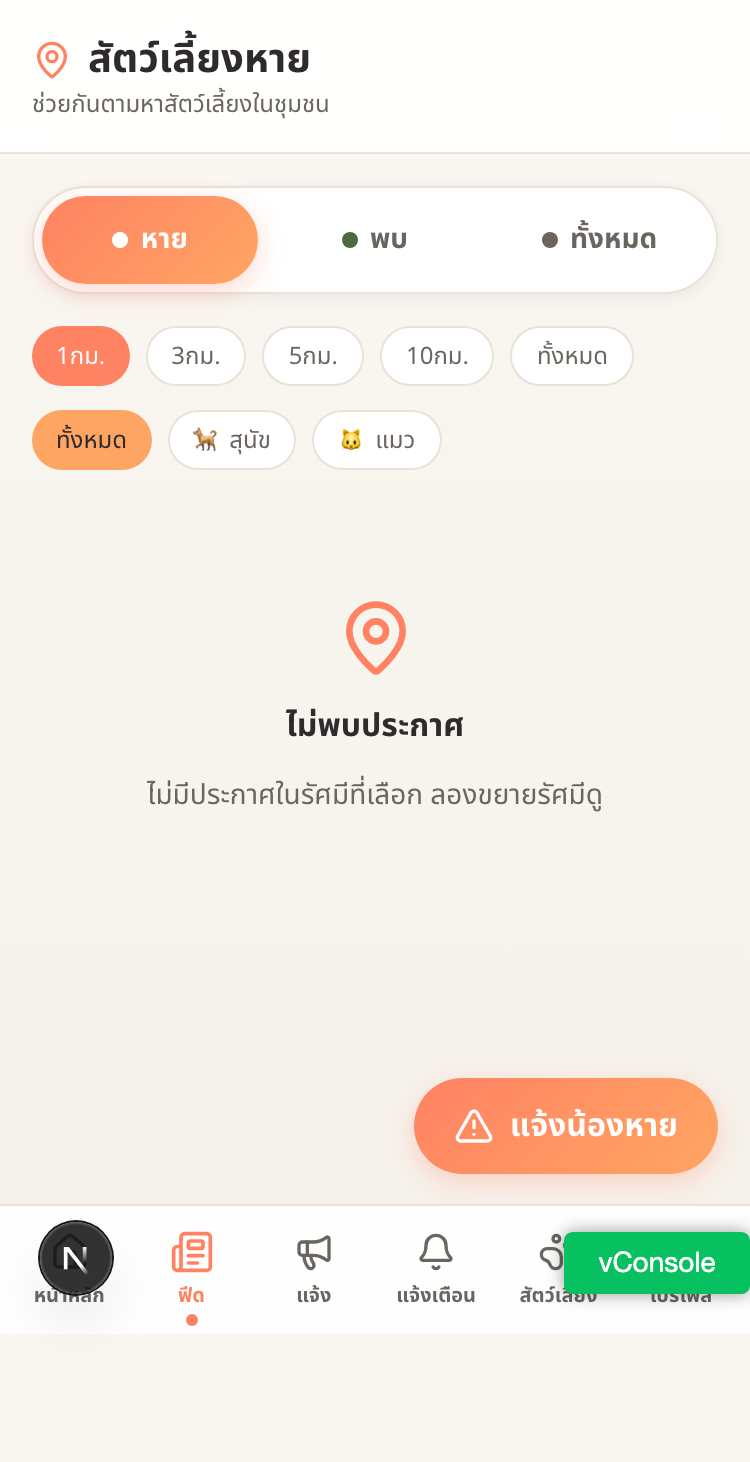
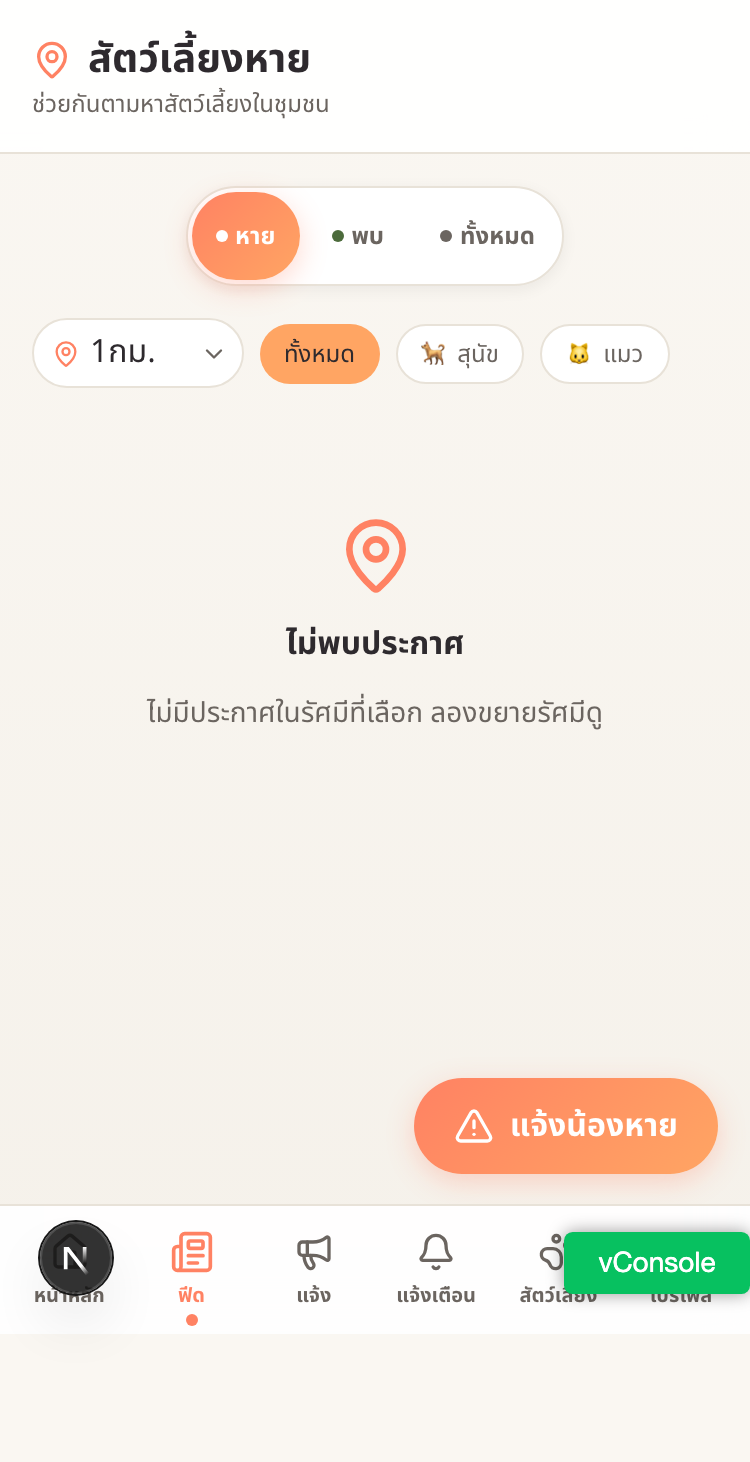
refactor(post): compact filter row + wizard reference screenshot
- shrink lost/found/all tabs on /post: auto-width pill group instead
  of full-width bar (py-1.5 text-xs, smaller status dot)
- convert radius selector from horizontal pill chips to a compact
  styled native <select> dropdown with MapPin + ChevronDown affordances
- align radius dropdown + species filter on the same flex row
  (was vertically stacked via space-y-2)
- recapture ROADMAP/screenshots/after/post.png against new layout
- add ROADMAP/screenshots/after/post-lost-wizard.png — full wizard
  reference rendered from design-of-record mockup
  (ROADMAP/New-design/variation-06.html, "Screen 2: /post/lost" section)
  so reviewers can see the complete 5-step wizard shell in one frame
- document both screenshots in ROADMAP/screenshots/README.md; note
  the cleaner NEXT_PUBLIC_LIFF_ID= unset approach (no code bypass)

diff --git a/components/post/radius-selector.tsx b/components/post/radius-selector.tsx
@@ -1,5 +1,6 @@
 "use client";
 
+import { MapPin, ChevronDown } from "lucide-react";
 import { cn } from "@/lib/utils";
 
 interface RadiusSelectorProps {
@@ -16,22 +17,34 @@ const RADIUS_OPTIONS: { label: string; value: number | null }[] = [
 ];
 
 export function RadiusSelector({ value, onChange }: RadiusSelectorProps) {
+  const currentValue = value === null ? "all" : String(value);
   return (
-    <div className="flex gap-2 overflow-x-auto hide-scrollbar pb-1">
-      {RADIUS_OPTIONS.map((option) => (
-        <button
-          key={option.label}
-          onClick={() => onChange(option.value)}
-          className={cn(
-            "flex-shrink-0 px-3 py-1.5 rounded-full text-xs font-medium transition-colors",
-            value === option.value
-              ? "bg-primary text-white"
-              : "bg-surface text-text-muted border border-border hover:border-primary"
-          )}
-        >
-          {option.label}
-        </button>
-      ))}
+    <div className="relative inline-flex">
+      <MapPin
+        className="pointer-events-none absolute left-2.5 top-1/2 -translate-y-1/2 w-3.5 h-3.5 text-primary"
+        aria-hidden
+      />
+      <select
+        aria-label="รัศมีการค้นหา"
+        value={currentValue}
+        onChange={(e) => onChange(e.target.value === "all" ? null : Number(e.target.value))}
+        className={cn(
+          "appearance-none pl-7 pr-7 py-1.5 rounded-full text-xs font-medium",
+          "bg-surface border border-border text-text-main",
+          "focus:outline-none focus:ring-2 focus:ring-primary/30 focus:border-primary",
+          "cursor-pointer"
+        )}
+      >
+        {RADIUS_OPTIONS.map((opt) => (
+          <option key={opt.label} value={opt.value === null ? "all" : String(opt.value)}>
+            {opt.label}
+          </option>
+        ))}
+      </select>
+      <ChevronDown
+        className="pointer-events-none absolute right-2 top-1/2 -translate-y-1/2 w-3.5 h-3.5 text-text-muted"
+        aria-hidden
+      />
     </div>
   );
 }

diff --git a/app/post/page.tsx b/app/post/page.tsx
@@ -337,7 +337,7 @@ export default function PostPage() {
         <div
           role="tablist"
           aria-label="เลือกประเภทประกาศ"
-          className="flex gap-1 bg-surface rounded-full p-1 border border-border shadow-soft"
+          className="flex gap-1 bg-surface rounded-full p-0.5 border border-border shadow-soft w-fit mx-auto"
         >
           {tabs.map((tab) => {
             const isActive = activeTab === tab.key;
@@ -349,14 +349,14 @@ export default function PostPage() {
                 aria-selected={isActive}
                 onClick={() => setActiveTab(tab.key)}
                 className={cn(
-                  "flex-1 py-2.5 text-sm font-bold rounded-full transition-all flex items-center justify-center gap-1.5 touch-target",
+                  "px-3 py-1 text-xs font-bold rounded-full transition-all flex items-center justify-center gap-1 touch-target",
                   isActive
                     ? "bg-primary-gradient text-white shadow-primary"
                     : "text-text-muted hover:text-text-main"
                 )}
               >
                 <span
-                  className={cn("w-2 h-2 rounded-full", isActive ? "bg-surface" : tab.tone)}
+                  className={cn("w-1.5 h-1.5 rounded-full", isActive ? "bg-surface" : tab.tone)}
                   aria-hidden
                 />
                 {tab.label}
@@ -365,7 +365,7 @@ export default function PostPage() {
           })}
         </div>
 
-        <div className="space-y-2">
+        <div className="flex items-center gap-2 flex-wrap">
           <RadiusSelector value={radius} onChange={setRadius} />
           <SpeciesFilter value={species} onChange={setSpecies} />
         </div>

diff --git a/ROADMAP/screenshots/README.md b/ROADMAP/screenshots/README.md
@@ -24,7 +24,11 @@ production React routes on `feature/prp-16-e2e-docs`.
   The bypass file edit **was reverted after capture** — verified via
   `git hash-object components/liff-provider.tsx` matching the original
   SHA before any commit touched the repo. Only the PNGs below were
-  committed; no auth-weakening change exists in git history.
+  committed; no auth-weakening change exists in git history. The
+  2026-04-21 refresh of `post.png` (and the new `post-lost-wizard.png`)
+  used a cleaner approach: `NEXT_PUBLIC_LIFF_ID=` unset at dev start,
+  which makes `LiffProvider` fail-quiet (loading=false, no redirect)
+  without any code change.
 - Data: pages render their empty / skeleton / no-data states since no
   authenticated API calls succeed under bypass. This is intentional —
   the comparison target is layout / tokens / components, not populated
@@ -37,7 +41,8 @@ production React routes on `feature/prp-16-e2e-docs`.
 | `after/home.png`         | `../New-design/variation-06-home.html`          | `/`             | 7-section dashboard (greeting / weather / pet status / urgent / nearby / health / quick actions) |
 | `after/notifications.png`| `../New-design/variation-06-notifications.html` | `/notifications`| Good-news + nearby (<5km) + other active split, semantic distance badges |
 | `after/profile.png`      | `../New-design/variation-06-profile.html`       | `/profile`      | 11-section layout (hero / subscription / pets / contacts / notif / PDPA / settings / help / sign-out / footer) |
-| `after/post-lost.png`    | `../New-design/variation-06-states.html`        | `/post/lost`    | Lost-pet wizard — bubble cards, POPS gradient step indicator, Thai copy |
+| `after/post-lost.png`    | `../New-design/variation-06-states.html`        | `/post/lost`    | Lost-pet wizard step 1 shell (empty pet list) — production React, no seeded pets |
+| `after/post-lost-wizard.png` | `../New-design/variation-06.html` (mockup)  | `/post/lost`    | Full lost-pet wizard reference — rendered from design-of-record mockup; all 5 steps visible in one scroll |
 | `after/post-found.png`   | `../New-design/variation-06-states.html`        | `/post/found`   | Found-pet wizard — counterpart to lost with same v6 shell |
 | `after/pets.png`         | `../New-design/variation-06.html`               | `/pets`         | Generic v6 shell — circular pet selectors with POPS-gradient ring |
 | `after/post.png`         | `../New-design/variation-06.html`               | `/post`         | Community feed landing with lost / found tabs |
